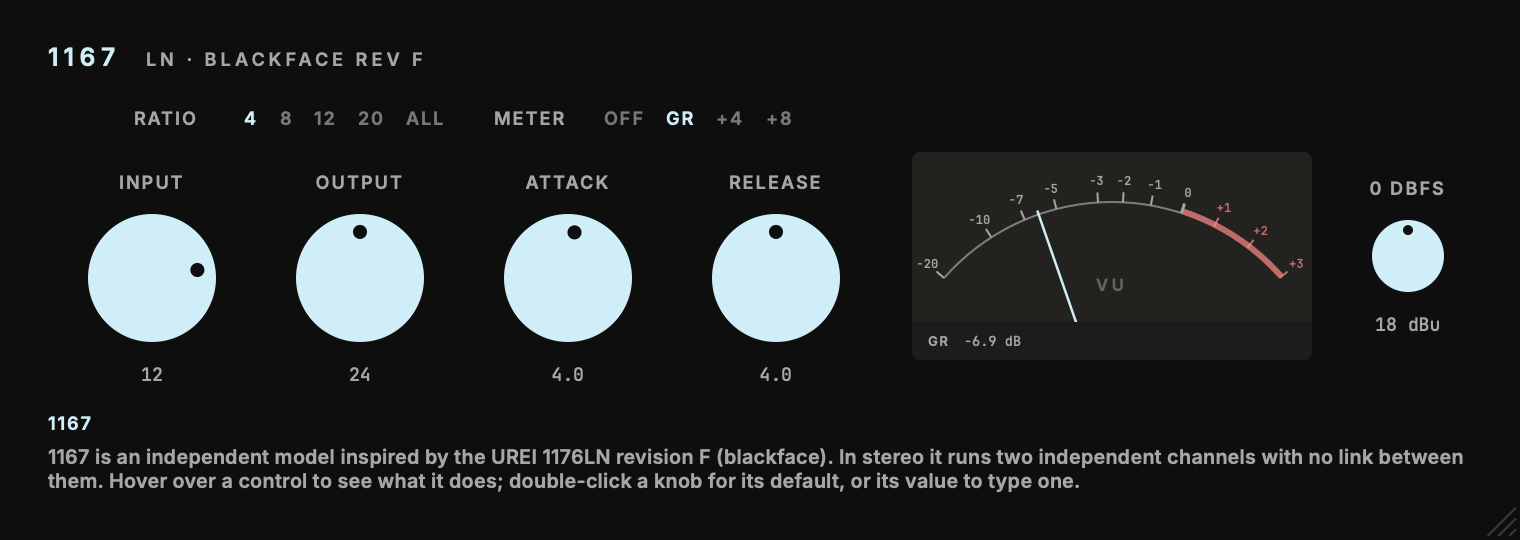
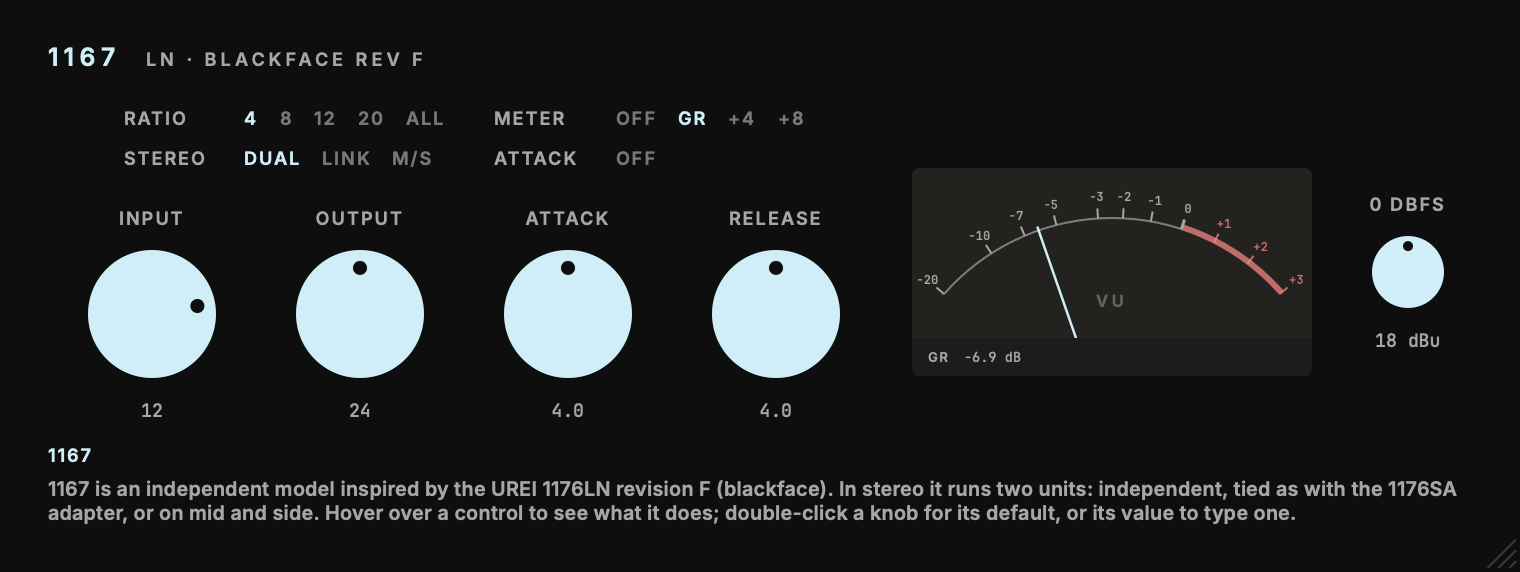
Publish every plugin under one section
Fold the legacy list into Published and comment the Legacy section out.
1167 moves to v0.2.0 with its reduced-circuit engine and new screenshot.
Remove Tuna Tuner, whose public release was retired.

diff --git a/_pages/plugins.md b/_pages/plugins.md
@@ -16,6 +16,28 @@ permalink: /plugins/
     <ul class="plugins">
 
       <li class="plugin">
+        <a class="plugin__shot" href="https://github.com/chijenpeng/1167" target="_blank" rel="noopener">
+          <img src="/images/plugins/1167.png" width="760" height="286" alt="1167 editor">
+        </a>
+        <div class="plugin__text">
+        <div class="plugin__head">
+          <h3 class="t-title">1167</h3>
+          <span class="plugin__model t-label">· UREI 1176LN Rev F</span>
+        </div>
+        <p class="plugin__status status t-value">v0.2.0<span class="sep">|</span>AU<span class="sep">|</span>VST3<span class="sep">|</span>macOS universal<span class="sep">|</span>Windows x64</p>
+        <p class="plugin__body">A FET compressor from the UREI 1176LN Rev F schematic, run as a reduced-circuit engine (about 120× real time in stereo) with Dual, Link and M/S stereo modes.</p>
+        <ul class="opt-row t-label plugin__actions">
+          <li class="opt-label">Download</li>
+          <li><a href="https://github.com/chijenpeng/1167/releases/download/v0.2.0/1167-0.2.0-macos-universal.zip">macOS</a></li>
+          <li><a href="https://github.com/chijenpeng/1167/releases/download/v0.2.0/1167-0.2.0-windows-x64.zip">Windows</a></li>
+          <li class="rule" aria-hidden="true"></li>
+          <li class="opt-label">Source</li>
+          <li><a href="https://github.com/chijenpeng/1167" target="_blank" rel="noopener">GitHub</a></li>
+        </ul>
+        </div>
+      </li>
+
+      <li class="plugin">
         <a class="plugin__shot" href="https://github.com/chijenpeng/limiter1" target="_blank" rel="noopener">
           <img src="/images/plugins/limiter1.png" width="780" height="380" alt="Limiter1 editor">
         </a>
@@ -55,6 +77,28 @@ permalink: /plugins/
           <li class="rule" aria-hidden="true"></li>
           <li class="opt-label">Source</li>
           <li><a href="https://github.com/chijenpeng/clipper1" target="_blank" rel="noopener">GitHub</a></li>
+        </ul>
+        </div>
+      </li>
+
+      <li class="plugin">
+        <a class="plugin__shot" href="https://github.com/chijenpeng/transient1" target="_blank" rel="noopener">
+          <img src="/images/plugins/transient1.png" width="560" height="428" alt="Transient1 editor">
+        </a>
+        <div class="plugin__text">
+        <div class="plugin__head">
+          <h3 class="t-title">Transient1</h3>
+          <span class="plugin__model t-label">· Transient shaper</span>
+        </div>
+        <p class="plugin__status status t-value">v0.1.0<span class="sep">|</span>AU<span class="sep">|</span>VST3<span class="sep">|</span>macOS universal<span class="sep">|</span>Windows x64</p>
+        <p class="plugin__body">A two-knob transient shaper: Attack and Sustain, in dB. No threshold to set, and a 1 ms look-ahead so the gain is in place before the hit.</p>
+        <ul class="opt-row t-label plugin__actions">
+          <li class="opt-label">Download</li>
+          <li><a href="https://github.com/chijenpeng/transient1/releases/download/v0.1.0/Transient1-0.1.0-macos-universal.zip">macOS</a></li>
+          <li><a href="https://github.com/chijenpeng/transient1/releases/download/v0.1.0/Transient1-0.1.0-windows-x64.zip">Windows</a></li>
+          <li class="rule" aria-hidden="true"></li>
+          <li class="opt-label">Source</li>
+          <li><a href="https://github.com/chijenpeng/transient1" target="_blank" rel="noopener">GitHub</a></li>
         </ul>
         </div>
       </li>
@@ -104,28 +148,6 @@ permalink: /plugins/
       </li>
 
       <li class="plugin">
-        <a class="plugin__shot" href="https://github.com/chijenpeng/transient1" target="_blank" rel="noopener">
-          <img src="/images/plugins/transient1.png" width="560" height="428" alt="Transient1 editor">
-        </a>
-        <div class="plugin__text">
-        <div class="plugin__head">
-          <h3 class="t-title">Transient1</h3>
-          <span class="plugin__model t-label">· Transient shaper</span>
-        </div>
-        <p class="plugin__status status t-value">v0.1.0<span class="sep">|</span>AU<span class="sep">|</span>VST3<span class="sep">|</span>macOS universal<span class="sep">|</span>Windows x64</p>
-        <p class="plugin__body">A two-knob transient shaper: Attack and Sustain, in dB. No threshold to set, and a 1 ms look-ahead so the gain is in place before the hit.</p>
-        <ul class="opt-row t-label plugin__actions">
-          <li class="opt-label">Download</li>
-          <li><a href="https://github.com/chijenpeng/transient1/releases/download/v0.1.0/Transient1-0.1.0-macos-universal.zip">macOS</a></li>
-          <li><a href="https://github.com/chijenpeng/transient1/releases/download/v0.1.0/Transient1-0.1.0-windows-x64.zip">Windows</a></li>
-          <li class="rule" aria-hidden="true"></li>
-          <li class="opt-label">Source</li>
-          <li><a href="https://github.com/chijenpeng/transient1" target="_blank" rel="noopener">GitHub</a></li>
-        </ul>
-        </div>
-      </li>
-
-      <li class="plugin">
         <a class="plugin__shot" href="https://github.com/chijenpeng/classic-channel-strip" target="_blank" rel="noopener">
           <img src="/images/plugins/classic-channel-strip.png" width="632" height="672" alt="Classic Channel Strip editor">
         </a>
@@ -168,36 +190,6 @@ permalink: /plugins/
         </ul>
         </div>
       </li>
-    </ul>
-  </section>
-
-  <section class="block">
-    <h2 class="t-title block__title">Legacy</h2>
-    <p class="plugin__body" style="margin-bottom: 32px;">Older hardware-inspired experiments. Some use detailed circuit models, and the collection is too CPU-heavy for everyday sessions, so I am keeping them here as-is.</p>
-
-    <ul class="plugins">
-
-      <li class="plugin">
-        <a class="plugin__shot" href="https://github.com/chijenpeng/1167" target="_blank" rel="noopener">
-          <img src="/images/plugins/1167.png" width="760" height="270" alt="1167 editor">
-        </a>
-        <div class="plugin__text">
-        <div class="plugin__head">
-          <h3 class="t-title">1167</h3>
-          <span class="plugin__model t-label">· UREI 1176LN Rev F</span>
-        </div>
-        <p class="plugin__status status t-value">v0.1.0<span class="sep">|</span>AU<span class="sep">|</span>VST3<span class="sep">|</span>macOS universal<span class="sep">|</span>Windows x64</p>
-        <p class="plugin__body">A component-level FET compressor model inspired by the UREI 1176LN Rev F.</p>
-        <ul class="opt-row t-label plugin__actions">
-          <li class="opt-label">Download</li>
-          <li><a href="https://github.com/chijenpeng/1167/releases/download/v0.1.0/1167-0.1.0-macos-universal.zip">macOS</a></li>
-          <li><a href="https://github.com/chijenpeng/1167/releases/download/v0.1.0/1167-0.1.0-windows-x64.zip">Windows</a></li>
-          <li class="rule" aria-hidden="true"></li>
-          <li class="opt-label">Source</li>
-          <li><a href="https://github.com/chijenpeng/1167" target="_blank" rel="noopener">GitHub</a></li>
-        </ul>
-        </div>
-      </li>
 
       <li class="plugin">
         <a class="plugin__shot" href="https://github.com/chijenpeng/laaa" target="_blank" rel="noopener">
@@ -220,27 +212,15 @@ permalink: /plugins/
         </ul>
         </div>
       </li>
-
-      <li class="plugin">
-        <a class="plugin__shot" href="https://github.com/chijenpeng/tuna-tuner" target="_blank" rel="noopener">
-          <img src="/images/plugins/tuna-tuner.png" width="900" height="340" alt="Tuna Tuner editor">
-        </a>
-        <div class="plugin__text">
-        <div class="plugin__head">
-          <h3 class="t-title">Tuna Tuner</h3>
-          <span class="plugin__model t-label">· Vocal pitch correction</span>
-        </div>
-        <p class="plugin__status status t-value">v0.5.0<span class="sep">|</span>AU<span class="sep">|</span>VST3<span class="sep">|</span>macOS universal</p>
-        <p class="plugin__body">Monophonic vocal pitch correction: choose a key, scale and vocal range, and the lead line is moved toward the nearest allowed note. It's not as accurate as Auto-Tune, or even Ableton's own Auto Shift. macOS only.</p>
-        <ul class="opt-row t-label plugin__actions">
-          <li class="opt-label">Download</li>
-          <li><a href="https://github.com/chijenpeng/tuna-tuner/releases/download/v0.5.0/Tuna-Tuner-0.5.0-macos-universal.zip">macOS</a></li>
-          <li class="rule" aria-hidden="true"></li>
-          <li class="opt-label">Source</li>
-          <li><a href="https://github.com/chijenpeng/tuna-tuner" target="_blank" rel="noopener">GitHub</a></li>
-        </ul>
-        </div>
-      </li>
     </ul>
   </section>
+
+  <!-- Legacy section, kept for when something is retired again.
+  <section class="block">
+    <h2 class="t-title block__title">Legacy</h2>
+    <p class="plugin__body" style="margin-bottom: 32px;">Older hardware-inspired experiments. Some use detailed circuit models, and the collection is too CPU-heavy for everyday sessions, so I am keeping them here as-is.</p>
+    <ul class="plugins">
+    </ul>
+  </section>
+  -->
 {:/nomarkdown}
